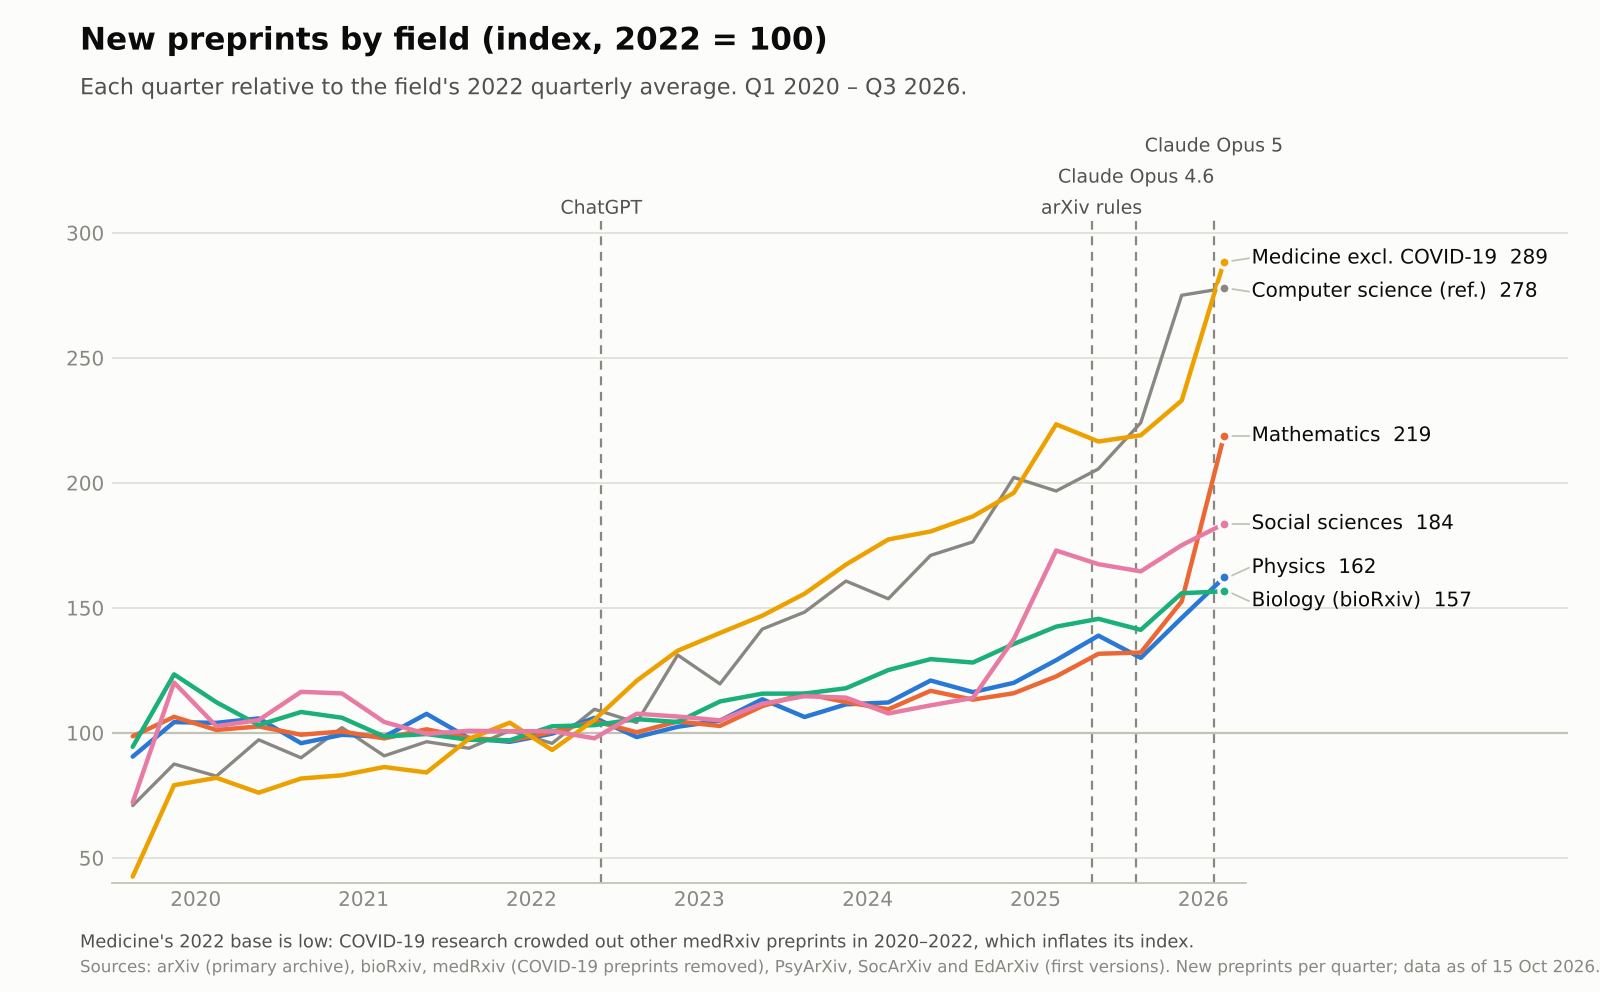
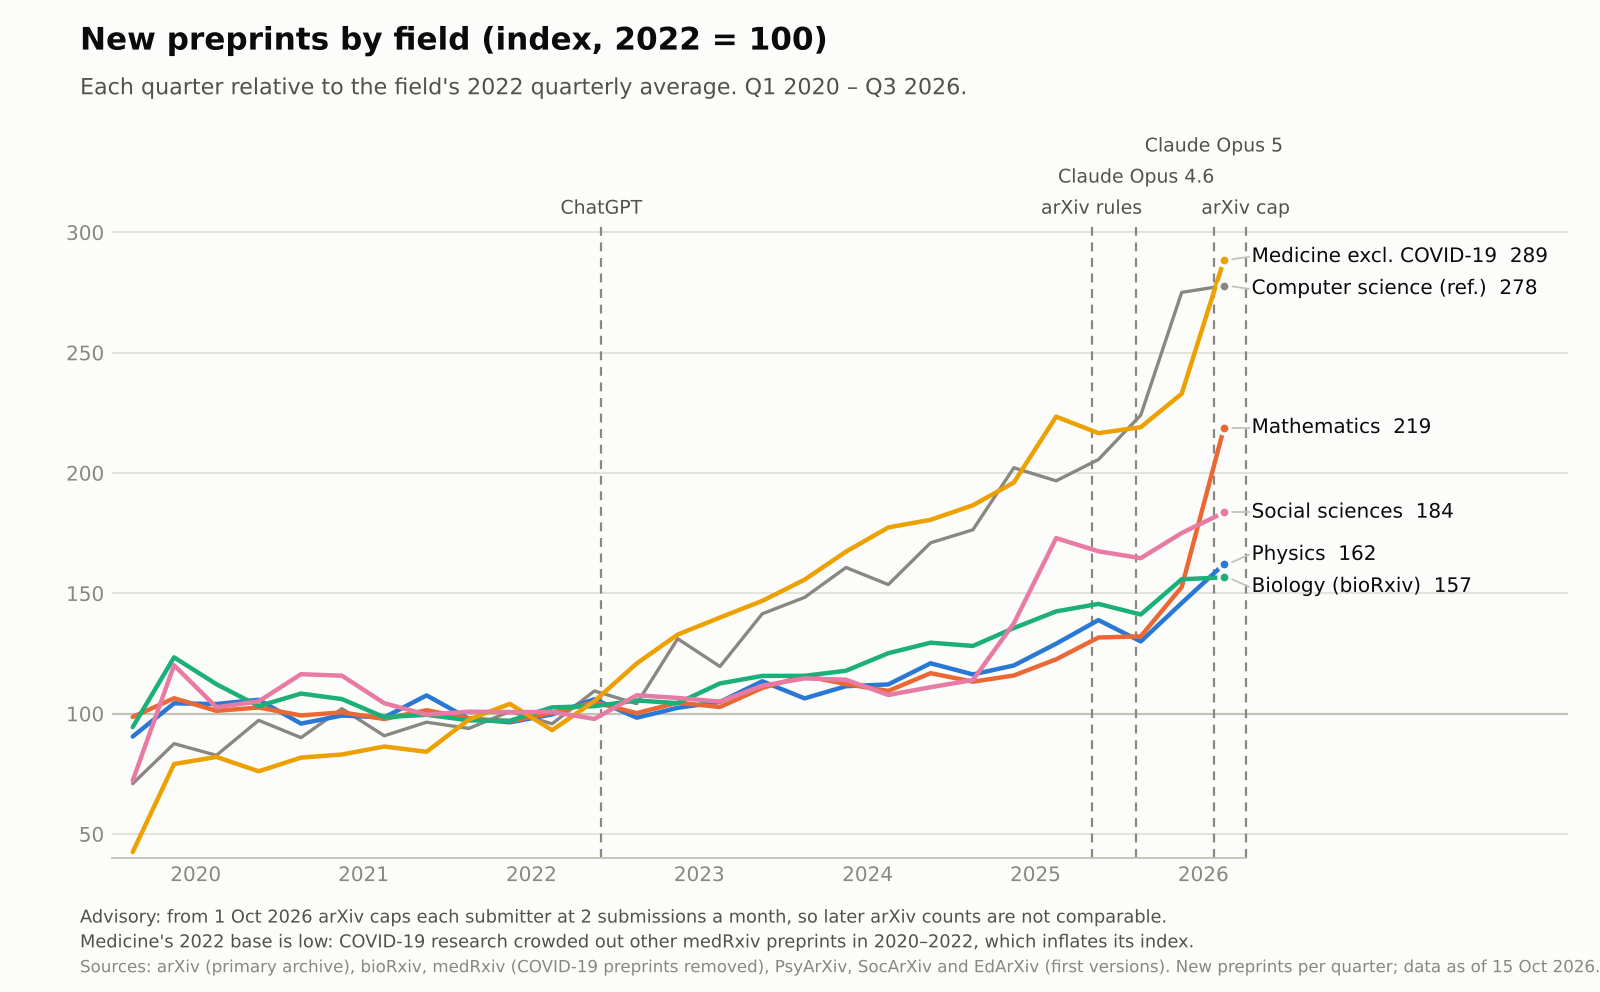
Mark the 1 Oct 2026 arXiv submission cap as a series-break advisory
Static arXiv charts and the dashboard now show an "arXiv cap" line at
1 Oct 2026 with a note that later arXiv counts are not comparable. The
dashboard reserves extra header rows when event labels stack.

Claude-Session: https://claude.ai/code/session_01KTf8CGXsrzCo6KBJ5Py3kt

Changed region(s): [[0.0312, 0.1875, 0.9688, 0.875], [0.0625, 0.8438, 0.7188, 0.9375], [0.7188, 0.8125, 0.7812, 0.9062]]

diff --git a/dashboards/preprints-por-campo/index.html b/dashboards/preprints-por-campo/index.html
@@ -174,7 +174,8 @@
       <li><b>Medicine excludes COVID-19.</b> A medRxiv preprint is left out when its title or abstract mentions COVID-19, SARS-CoV-2 or 2019-nCoV. The COVID-19 column in the table shows what was removed. Medicine's 2022 base is low because COVID-19 research crowded out other medRxiv preprints in 2020–2022, which inflates its growth against 2022.</li>
       <li><b>A preprint is not a publication.</b> Preprint use differs widely by field: nearly universal in physics and mathematics, partial in biology and medicine, and a minority practice in the social sciences, where psychology dominates. Compare each field's trend, not volumes across fields.</li>
       <li><b>Social sciences is a small sample.</b> SSRN and RePEc, the largest economics and social-science repositories, are missing because reliable quarterly counts could not be obtained.</li>
-      <li><b>Known breaks.</b> arXiv changed its rules between October 2025 and February 2026 (review papers in computer science, endorsement of new authors, a full English version). September 2026 is its busiest month on record; a limit of two submissions a month per person was announced and applied on 1 October 2026. SocArXiv began requiring ORCID and moved humanities papers to another repository in November 2025. Since early 2025 OSF lists every version as a separate record; only first versions count here.</li>
+      <li><b>Known breaks.</b> arXiv changed its rules between October 2025 and February 2026 (review papers in computer science, endorsement of new authors, a full English version). September 2026 is its busiest month on record. SocArXiv began requiring ORCID and moved humanities papers to another repository in November 2025. Since early 2025 OSF lists every version as a separate record; only first versions count here.</li>
+      <li><b>Advisory: arXiv cap.</b> From 1 October 2026 arXiv accepts at most two submissions a month per submitter; a limit of three pending submissions at once already applied. arXiv counts from the fourth quarter of 2026 on are therefore not comparable with earlier quarters. The dashed “arXiv cap” line marks the break.</li>
       <li><b>Model launches.</b> Claude Opus 4.6 (5 February 2026) and Claude Opus 5 (24 July 2026) are marked as Anthropic milestones. Other labs released models in the same months, so the markers show timing, not cause.</li>
       <li><b>arXiv totals.</b> Some arXiv categories are aliases shared by two archives (for example, mathematical physics), so a small share of papers counts in two fields.</li>
     </ul>
@@ -319,6 +320,7 @@ const EVENTS = [
   { date: new Date(Date.UTC(2025, 9, 31)), label: 'arXiv rules' },
   { date: new Date(Date.UTC(2026, 1, 5)), label: 'Claude Opus 4.6' },
   { date: new Date(Date.UTC(2026, 6, 24)), label: 'Claude Opus 5' },
+  { date: new Date(Date.UTC(2026, 9, 1)), label: 'arXiv cap' },
 ];
 const SOURCES = ['arxiv_fields', 'biorxiv_medrxiv', 'osf_social'];
 const TABLE_COLUMNS = ['physics', 'mathematics', 'biology', 'medicine', 'medrxiv_covid', 'social_sciences', 'psyarxiv', 'socarxiv', 'edarxiv', 'econ_finance', 'computer_science'];
@@ -403,18 +405,25 @@ function drawLegend(id, series) {
   }));
 }
 
-function drawEvents(svg, x, top, bottom, width) {
+// Places each event label in the first row where it does not overlap the previous label.
+function layoutEvents(svg, x, width) {
   const inRange = EVENTS.filter((e) => e.date >= x.domain()[0] && e.date <= x.domain()[1]);
   const rowEnds = [];
-  for (const ev of inRange) {
+  return inRange.map((ev) => {
     const xe = x(ev.date);
-    svg.append('line').attr('class', 'pc-event').attr('x1', xe).attr('x2', xe).attr('y1', top - 6).attr('y2', bottom);
     const w = textWidth(svg, [ev.label], 'pc-event-text') + 8;
     const right = xe > width * 0.55;
     const span = right ? [xe - w, xe] : [xe, xe + w];
     let row = 0;
     while (rowEnds[row] !== undefined && rowEnds[row] > span[0]) row += 1;
     rowEnds[row] = span[1];
+    return { ev, xe, right, row };
+  });
+}
+
+function drawEvents(svg, layout, top, bottom) {
+  for (const { ev, xe, right, row } of layout) {
+    svg.append('line').attr('class', 'pc-event').attr('x1', xe).attr('x2', xe).attr('y1', top - 6).attr('y2', bottom);
     svg.append('text').attr('class', 'pc-event-text')
       .attr('x', right ? xe - 4 : xe + 4).attr('y', top - 10 - row * 14)
       .attr('text-anchor', right ? 'end' : 'start').text(ev.label);
@@ -435,8 +444,10 @@ function drawLines(box, rows, opts) {
   const svg = d3.select(box).append('svg').attr('width', '100%').attr('viewBox', `0 0 ${W} ${H}`)
     .attr('role', 'img').attr('aria-label', opts.label);
   const m = { l: textWidth(svg, ticksY.map(opts.tick)) + 10, r: 14, t: 52, b: 26 };
-  y.range([H - m.b, m.t]);
   const x = d3.scaleUtc([dateOf(rows[0].start, 0, 1), dateOf(rows[rows.length - 1].start, 3, 1)], [m.l, W - m.r]);
+  const events = layoutEvents(svg, x, W);
+  m.t = Math.max(m.t, 24 + 14 * (d3.max(events, (e) => e.row) ?? 0));
+  y.range([H - m.b, m.t]);
 
   svg.append('g').attr('class', 'pc-gridlines').selectAll('line').data(ticksY).join('line')
     .attr('x1', m.l).attr('x2', W - m.r).attr('y1', (d) => y(d)).attr('y2', (d) => y(d));
@@ -452,7 +463,7 @@ function drawLines(box, rows, opts) {
   svg.append('g').attr('class', 'pc-ticks').selectAll('text').data(years).join('text')
     .attr('x', (d) => (x(d) + x(d3.min([d3.utcYear.offset(d, 1), x.domain()[1]]))) / 2)
     .attr('y', H - m.b + 17).attr('text-anchor', 'middle').text((d) => String(d.getUTCFullYear()));
-  drawEvents(svg, x, m.t, H - m.b, W);
+  drawEvents(svg, events, m.t, H - m.b);
 
   for (const s of series) {
     const line = d3.line().defined((d) => Number.isFinite(d[s.key])).x((d) => x(d.date)).y((d) => y(d[s.key]));

diff --git a/scripts/plot_static.py b/scripts/plot_static.py
@@ -32,6 +32,7 @@ EVENTS = [
     (dt.date(2025, 10, 31), "arXiv rules"),
     (dt.date(2026, 2, 5), "Claude Opus 4.6"),
     (dt.date(2026, 7, 24), "Claude Opus 5"),
+    (dt.date(2026, 10, 1), "arXiv cap"),
 ]
 MATH_NAMES = {
     "math.AC": "Commutative algebra", "math.AG": "Algebraic geometry", "math.AP": "Analysis of PDEs",
@@ -51,9 +52,11 @@ MATH_EVENTS = [
     (dt.date(2026, 2, 5), "Claude Opus 4.6"),
     (dt.date(2026, 5, 20), "OpenAI disproves unit-distance conjecture"),
     (dt.date(2026, 7, 24), "Claude Opus 5"),
+    (dt.date(2026, 10, 1), "arXiv cap"),
 ]
 SOURCES = ("Sources: arXiv (primary archive), bioRxiv, medRxiv (COVID-19 preprints removed), PsyArXiv, SocArXiv and "
            "EdArXiv (first versions). New preprints per quarter; data as of 15 Oct 2026.")
+ADVISORY = "Advisory: from 1 Oct 2026 arXiv caps each submitter at 2 submissions a month, so later arXiv counts are not comparable."
 
 
 def mid(q):
@@ -146,10 +149,11 @@ def line_chart(path, x, series, title, subtitle, fmt, ylim, base, end_fmt, note=
     for (key, name, color, ys), y_end, y_lab in zip(series, ends, labels_y):
         ax.plot([x[-1] + dt.timedelta(days=8), x_lab - dt.timedelta(days=6)], [y_end, y_lab], color=AXIS, linewidth=0.8)
         ax.text(x_lab, y_lab, f"{SHORT.get(key, name)}  {end_fmt(y_end)}", color=INK, fontsize=9, va="center")
-    fig.subplots_adjust(left=0.07, right=0.98, top=0.78, bottom=0.11)
+    fig.subplots_adjust(left=0.07, right=0.98, top=0.78, bottom=0.135)
     events(ax, ylim[1], EVENTS)
     header(fig, title, subtitle)
     fig.text(0.05, 0.02, SOURCES, fontsize=7.5, color=MUTED, ha="left")
+    fig.text(0.05, 0.07 if note else 0.045, ADVISORY, fontsize=8, color=INK2, ha="left")
     if note:
         fig.text(0.05, 0.045, note, fontsize=8, color=INK2, ha="left")
     fig.savefig(path, facecolor=SURFACE)
@@ -231,7 +235,7 @@ def math_charts(repo, out):
     ax.yaxis.set_major_formatter(mticker.FuncFormatter(lambda t, _: f"{t:,.0f}"))
     ax.xaxis.set_major_formatter(mdates.DateFormatter("%b\n%Y"))
     ax.xaxis.set_major_locator(mdates.MonthLocator(bymonth=(1, 4, 7, 10)))
-    ax.set_xlim(dt.date(2024, 12, 20), dt.date(2026, 9, 30))
+    ax.set_xlim(dt.date(2024, 12, 20), dt.date(2026, 10, 25))
     for d, v in zip(months, papers):
         if d >= dt.date(2026, 6, 1) or d == dt.date(2025, 9, 15):
             ax.text(d, v + max(papers) * 0.015, f"{v:,}", ha="center", va="bottom", fontsize=8, color=INK)
@@ -240,6 +244,7 @@ def math_charts(repo, out):
     header(fig, "New arXiv mathematics papers per month",
            "Primary category math.*, counted in the month of the first version. Jan 2025 – Sep 2026.")
     fig.text(0.05, 0.02, "Source: arXiv OAI-PMH metadata (harvested 15 Oct 2026).", fontsize=7.5, color=MUTED)
+    fig.text(0.05, 0.045, ADVISORY, fontsize=8, color=INK2)
     fig.savefig(os.path.join(out, "fig4_math_monthly.png"), facecolor=SURFACE)
     plt.close(fig)
 
@@ -267,13 +272,14 @@ def math_charts(repo, out):
         ax.xaxis.set_major_formatter(mdates.DateFormatter("%b %Y"))
         ax.xaxis.set_major_locator(mdates.MonthLocator(bymonth=(1, 7)))
         ax.set_xlim(dt.date(2024, 12, 15), dt.date(2026, 11, 15))
-        for d in (dt.date(2026, 2, 5), dt.date(2026, 7, 24)):
+        for d in (dt.date(2026, 2, 5), dt.date(2026, 7, 24), dt.date(2026, 10, 1)):
             ax.axvline(d, color=MUTED, linewidth=1, linestyle=(0, (4, 3)), zorder=1)
         ax.set_title(title, loc="left", fontsize=11, color=INK, pad=16)
         ax.text(0, 1.02, sub, transform=ax.transAxes, fontsize=8.5, color=INK2, va="bottom")
     fig.subplots_adjust(left=0.07, right=0.97, top=0.8, bottom=0.08, hspace=0.62, wspace=0.18)
     header(fig, "What changed in arXiv mathematics papers",
-           "Monthly, Jan 2025 – Sep 2026. Dashed lines: Claude Opus 4.6 (5 Feb 2026) and Claude Opus 5 (24 Jul 2026).",
+           "Monthly, Jan 2025 – Sep 2026. Dashed lines: Claude Opus 4.6 (5 Feb 2026), Claude Opus 5 (24 Jul 2026), "
+           "arXiv cap (1 Oct 2026).",
            y=0.955)
     fig.text(0.05, 0.012, "Source: arXiv OAI-PMH metadata; keyword matching on title, abstract and comments.",
              fontsize=7.5, color=MUTED)
@@ -335,7 +341,7 @@ def cs_charts(repo, out):
     ax1.text(pos[-1], total[-1] + max(total) * 0.02, f"AI {share:.0%}", fontsize=8.5, color=INK, ha="center")
     handles, labels = ax1.get_legend_handles_labels()
     ax1.legend(handles[::-1], labels[::-1], loc="upper left", frameon=False, fontsize=9, labelcolor=INK2)
-    ax1.set_title("New arXiv computer-science papers per quarter", loc="left", fontsize=11, color=INK, pad=52)
+    ax1.set_title("New arXiv computer-science papers per quarter", loc="left", fontsize=11, color=INK, pad=64)
 
     style(ax2)
     base = lambda v: sum(val for q, val in zip(quarters, v) if q.startswith("2022-")) / 4
@@ -362,14 +368,15 @@ def cs_charts(repo, out):
     for (n, c, ys, lw), y_end, y_lab in zip(idx, ends, labels_y):
         ax2.plot([x[-1] + dt.timedelta(days=8), x_lab - dt.timedelta(days=6)], [y_end, y_lab], color=AXIS, linewidth=0.8)
         ax2.text(x_lab, y_lab, f"{n}  {y_end:.0f}", color=INK, fontsize=9, va="center")
-    ax2.set_title("Index, 2022 = 100 (physics and mathematics in grey)", loc="left", fontsize=11, color=INK, pad=52)
-    fig.subplots_adjust(left=0.05, right=0.98, top=0.70, bottom=0.12, wspace=0.12)
+    ax2.set_title("Index, 2022 = 100 (physics and mathematics in grey)", loc="left", fontsize=11, color=INK, pad=64)
+    fig.subplots_adjust(left=0.05, right=0.98, top=0.66, bottom=0.12, wspace=0.12)
     events(ax2, top * 1.12, EVENTS)
     header(fig, "Computer science with and without AI research",
            "AI research = primary category cs.AI, cs.LG, cs.CL, cs.CV, cs.NE or cs.MA, or another CS category whose "
            "title or abstract uses AI/ML vocabulary.", y=0.95)
     fig.text(0.05, 0.02, "Source: arXiv OAI-PMH metadata (harvested Oct 2026); physics and mathematics from arXiv "
              "yearly statistics. New papers per quarter, Q1 2020 – Q3 2026.", fontsize=7.5, color=MUTED)
+    fig.text(0.05, 0.045, ADVISORY, fontsize=8, color=INK2)
     fig.savefig(os.path.join(out, "fig7_cs_without_ai.png"), facecolor=SURFACE)
     plt.close(fig)
 

diff --git a/README.md b/README.md
@@ -86,7 +86,8 @@ Salidas: `data/processed/arxiv_cs_ai_split_quarterly.csv` y `arxiv_cs_categories
     - versión completa en inglés;
     - límite de 2 envíos al mes por persona, anunciado y aplicado el 1 de octubre de 2026.
   - SocArXiv exigió ORCID y derivó las humanidades a otro repositorio en noviembre de 2025.
-- **Hitos marcados en los gráficos.** ChatGPT (30 nov 2022), cambios de normas de arXiv (31 oct 2025), Claude Opus 4.6 (5 feb 2026) y Claude Opus 5 (24 jul 2026). El gráfico mensual de matemáticas marca además el anuncio de OpenAI sobre la conjetura de las distancias unitarias (20 may 2026). Las versiones para publicación solo marcan ChatGPT, las normas de arXiv (incluido el límite de envíos del 1 de octubre de 2026) y Claude Opus 5. Otros laboratorios lanzaron modelos en los mismos meses: los marcadores indican fechas, no causas.
+- **Hitos marcados en los gráficos.** ChatGPT (30 nov 2022), cambios de normas de arXiv (31 oct 2025), Claude Opus 4.6 (5 feb 2026), Claude Opus 5 (24 jul 2026) y el límite de envíos de arXiv (1 oct 2026). El gráfico mensual de matemáticas marca además el anuncio de OpenAI sobre la conjetura de las distancias unitarias (20 may 2026). Las versiones para publicación solo marcan ChatGPT, las normas de arXiv (incluido el límite de envíos) y Claude Opus 5. Otros laboratorios lanzaron modelos en los mismos meses: los marcadores indican fechas, no causas.
+- **Aviso: límite de envíos de arXiv.** Desde el 1 de octubre de 2026 arXiv acepta como máximo dos envíos al mes por persona (el límite de tres envíos pendientes a la vez ya existía). Los recuentos de arXiv desde el cuarto trimestre de 2026 no son comparables con los anteriores; los gráficos y el panel lo indican con la línea «arXiv cap» y una nota.
 
 ## Regenerar los datos
 
